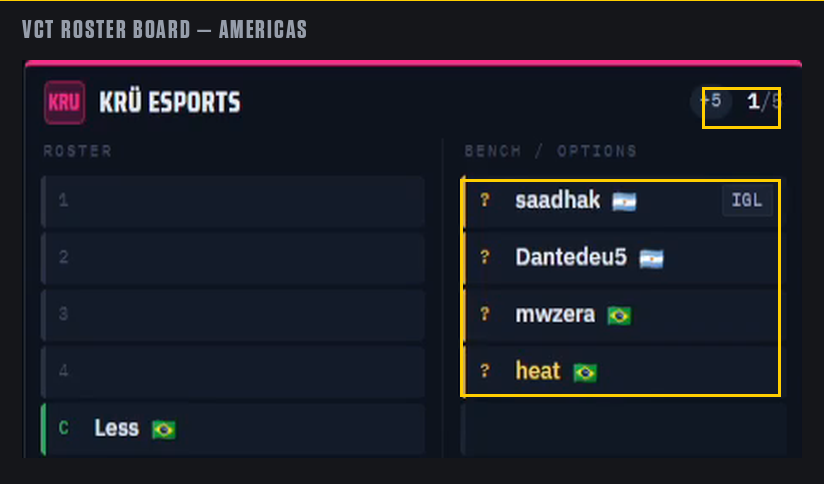
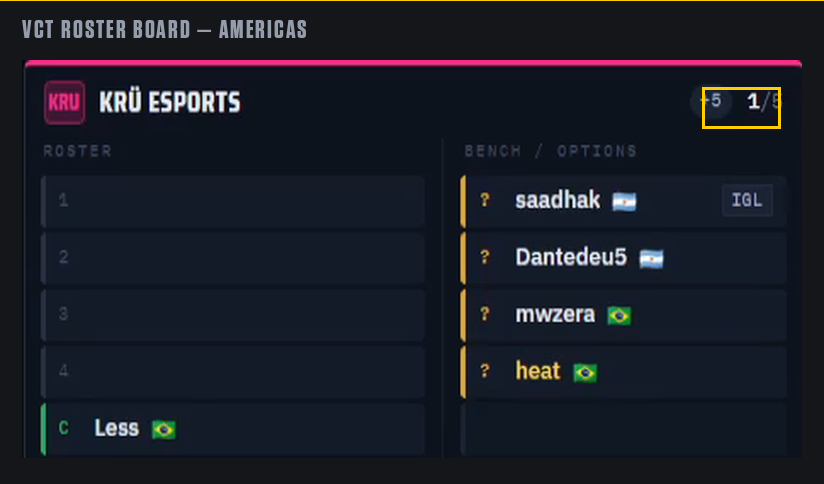
Build the marker annotation and mid-clip titles
Both came out of a per-second contact-sheet sweep of R1 that the earlier
once-over missed.

The marker DRAWS ON. R1's annotation at 0:31 is caught mid-stroke, ~70%
round, starting bottom-left. That is its whole character: a circle that
fades in reads as a UI element, one that draws reads as someone pointing.
titles.marker_ellipse renders a frame of the stroke; overlays.sequence_clip
pipes frames to ffmpeg as raw RGBA so an animated overlay needs no
intermediate files.

Three things keep it off the vector-ellipse look: the radius wanders on
three slow harmonics (plain noise looks like noise, not like a hand), the
stroke thins as the pen lifts, and the arc overshoots past 360 degrees.
It circles the four unconfirmed KRU players, replacing panel(boxes=...)'s
clean rectangle, and its position is derived from the panel geometry rather
than eyeballed.

Mid-clip titles are the hook treatment at a smaller cap height, single
line. Neither restates him — they frame the stretch that follows, which is
what the removed banner was failing to do: "WHAT IT MEANS FOR PLAYERS" at
6.1s and "THE TRADE-OFF" at 44.4s.

Titles get no sound, so a thunk always means the same thing: a fact card
arrived. The marker gets none either — it starts 0.55s after its card's
cue, inside the 3s spacing floor.

Seven overlays in 51.5s, up from three. All on the Resolve timeline.

clip08_FINAL: 51.5s, -14.02 LUFS, -0.84 dBTP, QC pass, 0 black frames.

Changed region(s): [[0.5461, 0.3719, 0.9709, 0.8368]]

diff --git a/build_overlays.py b/build_overlays.py
@@ -18,8 +18,8 @@ import sys
 
 ROOT = Path(__file__).parent
 sys.path.insert(0, str(ROOT))
-from engine.titles import hook, panel, BOARD_REGIONS
-from engine.overlays import alpha_clip
+from engine.titles import hook, panel, section, marker_ellipse, BOARD_REGIONS
+from engine.overlays import alpha_clip, sequence_clip, CANVAS
 
 SCRATCH = Path("/private/tmp/claude-501/"
                "-Users-georgegeddes-Library-Application-Support-Claude-scratch-workspaces-"
@@ -54,19 +54,64 @@ PLAN = [
          settle=16, make=lambda p: panel(PLATE, p, (100, 152, 680, 180), width=1010,
                                          kicker="VCT Roster Board",
                                          rules=[B_SIGNED])),
-    dict(name="kru",    track=4, at=37.85, dur=3.60, y=1060, fade_in=0.10, fade_out=0.25,
-         settle=16, make=lambda p: panel(PLATE, p, BOARD_REGIONS["kru"], width=780,
-                                         kicker="VCT Roster Board — Americas",
-                                         boxes=[(1358, 262, 1404, 286),
-                                                (1216, 316, 1404, 444)])),
+    # The KRU card is the only ANNOTATED one — the marker draws on over it,
+    # so it is built by sequence_clip rather than alpha_clip. The clean
+    # rectangle round the four unconfirmed players is gone; the marker does
+    # that job, and does it the way R1 does.
+    dict(name="kru",    track=4, at=37.85, dur=4.20, y=1060, fade_in=0.10, fade_out=0.25,
+         settle=16, marker=True,
+         make=lambda p: panel(PLATE, p, BOARD_REGIONS["kru"], width=780,
+                              kicker="VCT Roster Board — Americas",
+                              boxes=[(1358, 262, 1404, 286)])),
+    # Mid-clip section titles (R1, 0:31). Not restatements of his words —
+    # they frame the stretch that follows, which is the job the removed
+    # banner was doing badly.
+    dict(name="sec1",   track=5, at=6.10,  dur=2.30, y=1120, fade_in=0.14, fade_out=0.45,
+         settle=0,  make=lambda p: section("WHAT IT MEANS FOR PLAYERS", p,
+                                           cap_px=84, accent_words=("PLAYERS",))),
+    dict(name="sec2",   track=5, at=44.40, dur=2.20, y=1120, fade_in=0.14, fade_out=0.45,
+         settle=0,  make=lambda p: section("THE TRADE-OFF", p,
+                                           cap_px=96, accent_words=("TRADE-OFF",))),
 ]
+
+# Where the four unconfirmed KRU players land on the 1080x1920 canvas, after
+# panel() has cropped (958,246)-(1417,480) to 780 wide and the clip sits at
+# y=1060. Derived, not eyeballed: scale 780/459, card x=(1080-824)/2, and
+# panel's own pad(22) + kicker height(42).
+_SC = 780 / (BOARD_REGIONS["kru"][2] - BOARD_REGIONS["kru"][0])
+_CX = (CANVAS[0] - 824) / 2 + 22
+_CY = 1060 + 60
+MARKER_BOX = (_CX + (1216 - 958) * _SC, _CY + (308 - 246) * _SC,
+              _CX + (1404 - 958) * _SC, _CY + (448 - 246) * _SC)
+
+
+def kru_frame(card_png: Path):
+    """Compose the KRU card with the marker drawing on from 0.55s."""
+    from PIL import Image
+    card = Image.open(card_png).convert("RGBA")
+    x0, y0, x1, y1 = MARKER_BOX
+    cx, cy = (x0 + x1) / 2, (y0 + y1) / 2
+    rx, ry = (x1 - x0) / 2 + 26, (y1 - y0) / 2 + 22
+
+    def fn(t, i):
+        frame = Image.new("RGBA", CANVAS, (0, 0, 0, 0))
+        frame.alpha_composite(card, (int((CANVAS[0] - card.width) / 2), 1060))
+        p = max(0.0, min(1.0, (t - 0.55) / 0.55))
+        if p > 0:
+            frame.alpha_composite(marker_ellipse(CANVAS, cx, cy, rx, ry, p))
+        return frame
+    return fn
 
 if __name__ == "__main__":
     for o in PLAN:
         png = PNG / f"{o['name']}.png"
         o["make"](png)
         mov = OUT / f"{o['name']}.mov"
-        alpha_clip(png, mov, dur=o["dur"], y=o["y"], fade_in=o["fade_in"],
-                   fade_out=o["fade_out"], settle_px=o["settle"])
+        if o.get("marker"):
+            sequence_clip(kru_frame(png), mov, dur=o["dur"],
+                          fade_in=o["fade_in"], fade_out=o["fade_out"])
+        else:
+            alpha_clip(png, mov, dur=o["dur"], y=o["y"], fade_in=o["fade_in"],
+                       fade_out=o["fade_out"], settle_px=o["settle"])
         print(f"  {o['name']:7} V{o['track']}  {o['at']:6.2f}s +{o['dur']:.2f}s  "
-              f"y={o['y']:<5} {mov.name}")
+              f"y={o['y']:<5} {'marker' if o.get('marker') else '':7} {mov.name}")

diff --git a/engine/titles.py b/engine/titles.py
@@ -293,3 +293,66 @@ def panel(src_png: Path, out: Path, rect, *, width=820, kicker="VCT Roster Board
                     fill=accent)
     img.save(out)
     return img.size
+
+
+MARKER = (240, 72, 32, 255)          # R1's annotation colour: red/orange
+
+
+def section(text: str, out: Path, *, width=1080, cap_px=96, accent_words=()):
+    """A mid-clip section title (R1, 0:31 — "150K POV:").
+
+    Titles are not only a hook at the head: R1 re-titles as the argument
+    moves, and the treatment is identical to the hook — ALL CAPS, white fill,
+    heavy hard black outline, NO box and no glow, in a tall condensed heavy
+    grotesque. It holds about a second and dissolves out, and R1 lets that
+    dissolve run on top of a shot change rather than waiting for one.
+
+    Single line and smaller than `hook`, so the head of the clip keeps its
+    weight and this reads as a subheading rather than a second hook.
+    """
+    return hook([text], out, width=width, cap_px=cap_px, accent_words=accent_words)
+
+
+def marker_ellipse(size, cx, cy, rx, ry, progress: float, *, colour=MARKER,
+                   stroke=11, rot=-0.18, overshoot=0.22, seed=5, segments=240):
+    """One frame of a hand-drawn marker circle, drawn `progress` of the way.
+
+    R1's annotation at 0:31 is caught MID-DRAW, about 70% round, starting
+    bottom-left and sweeping up and over — so this is a stroke that draws
+    ON, not a shape that fades in. That is the whole character of it; a
+    circle that simply appears reads as a UI element.
+
+    What keeps it from looking like a vector ellipse: the radius wanders on
+    a low-frequency wobble, the stroke thins towards the end as a real pen
+    lifts, and the arc OVERSHOOTS past 360 degrees, which is what a hand
+    does when closing a circle in one motion.
+    """
+    import math
+    import random
+
+    img = Image.new("RGBA", size, (0, 0, 0, 0))
+    d = ImageDraw.Draw(img)
+    rng = random.Random(seed)
+    # three slow harmonics -> a wobble that reads as a hand, not as noise
+    ph = [rng.uniform(0, math.tau) for _ in range(3)]
+    amp = [0.045, 0.028, 0.015]
+
+    total = math.tau * (1.0 + overshoot)
+    end = total * max(0.0, min(1.0, progress))
+    start = math.pi * 0.75                      # bottom-left, as in R1
+    n = max(2, int(segments * max(progress, 1e-3)))
+
+    pts = []
+    for i in range(n + 1):
+        a = start + end * i / n
+        w = 1.0 + sum(A * math.sin(k * (a - start) + p)
+                      for k, (A, p) in enumerate(zip(amp, ph), start=2))
+        x = cx + math.cos(a) * rx * w * math.cos(rot) - math.sin(a) * ry * w * math.sin(rot)
+        y = cy + math.cos(a) * rx * w * math.sin(rot) + math.sin(a) * ry * w * math.cos(rot)
+        pts.append((x, y))
+
+    for i in range(len(pts) - 1):
+        f = i / max(1, len(pts) - 1)
+        w = max(2, int(stroke * (1.0 - 0.45 * f ** 2)))     # the pen lifts
+        d.line([pts[i], pts[i + 1]], fill=colour, width=w, joint="curve")
+    return img

diff --git a/engine/overlays.py b/engine/overlays.py
@@ -75,3 +75,36 @@ def alpha_clip(png: Path, out: Path, *, dur: float, x: int | str = "(W-w)/2",
 def frames(seconds: float, fps: int = FPS) -> int:
     """Seconds to a frame count. `endFrame` is EXCLUSIVE in AppendToTimeline."""
     return int(round(seconds * fps))
+
+
+def sequence_clip(fn, out: Path, *, dur: float, canvas=CANVAS, fps: int = FPS,
+                  fade_in: float = 0.10, fade_out: float = 0.25) -> Path:
+    """Render a per-frame function to an alpha clip Resolve can composite.
+
+    `alpha_clip` is enough for a static card that fades and settles. An
+    annotation that DRAWS ON cannot be expressed that way — R1's marker
+    circle at 0:31 is caught mid-stroke, and a circle that merely fades in
+    reads as a UI element rather than someone pointing at something.
+
+    `fn(t, i)` returns an RGBA PIL image the size of the canvas. Frames are
+    piped to ffmpeg as raw RGBA, so nothing hits the disk in between.
+    """
+    import numpy as np
+
+    w, h = canvas
+    n = int(round(dur * fps))
+    proc = subprocess.Popen(
+        ["ffmpeg", "-y", "-v", "error",
+         "-f", "rawvideo", "-pix_fmt", "rgba", "-s", f"{w}x{h}", "-r", str(fps), "-i", "-",
+         "-filter_complex",
+         f"[0]fade=t=in:st=0:d={fade_in}:alpha=1,"
+         f"fade=t=out:st={max(0.0, dur - fade_out):.3f}:d={fade_out}:alpha=1[v]",
+         "-map", "[v]", "-c:v", "qtrle", "-pix_fmt", "argb", str(out)],
+        stdin=subprocess.PIPE)
+    for i in range(n):
+        img = fn(i / fps, i)
+        proc.stdin.write(np.asarray(img.convert("RGBA"), dtype=np.uint8).tobytes())
+    proc.stdin.close()
+    if proc.wait() != 0:
+        raise RuntimeError(f"ffmpeg failed writing {out}")
+    return out

diff --git a/resolve_overlays.py b/resolve_overlays.py
@@ -44,10 +44,16 @@ def main():
     total_s = total_frames / FPS
     print(f"timeline {tl.GetName()}  start {start}  {total_frames} frames ({total_s:.3f}s)")
 
-    # ---- the sound bed: one cue per card arriving, nothing else -----------
+    # ---- the sound bed: one cue per FACT CARD arriving, nothing else ------
+    # Titles get no sound. Keeping the thunk exclusively for cards means a
+    # sound always says the same thing — a fact just arrived — and after two
+    # notes about level, salting six events rather than four is the wrong
+    # direction. The marker draw-on gets none either: it starts 0.55s after
+    # its card's cue, well inside the 3s spacing floor.
+    SOUNDED = {"tweet", "strip1", "strip2", "kru"}
     cues = [Cue(o["at"] + 0.02, "thunk", cue_gain("thunk", TARGET_RMS, MASTER_GAIN),
                 f"{o['name']} card arrives")
-            for o in PLAN if o["name"] != "hook"]
+            for o in PLAN if o["name"] in SOUNDED]
     wav = OUT / "sfx.wav"
     print("sfx:", bed(cues, total_s, out=wav))
 

diff --git a/finish_audio.py b/finish_audio.py
@@ -17,9 +17,9 @@ sys.path.insert(0, str(ROOT))
 from engine.render_ffmpeg import _finish_audio
 from engine import qc
 
-SRC = ROOT / "renders/clip08_v22_resolve.mov"
-EQD = ROOT / "renders/clip08_v22_eq.mov"
-OUT = ROOT / "renders/clip08_v22.mp4"
+SRC = ROOT / "renders/clip08_v23_resolve.mov"
+EQD = ROOT / "renders/clip08_v23_eq.mov"
+OUT = ROOT / "renders/clip08_v23.mp4"
 
 EQ = "equalizer=f=3000:t=q:w=1.1:g=4,equalizer=f=9500:t=q:w=1.0:g=-7"
 subprocess.run(["ffmpeg", "-y", "-v", "error", "-i", str(SRC),

diff --git a/AGENTS.md b/AGENTS.md
@@ -621,6 +621,50 @@ Dropped deliberately: **flashes on cuts** (a cut is already an edit event, and
 neither reference uses flashes at all) and **shake** (decoration on a speaker
 this measured).
 
+### Marker annotation and mid-clip titles (R1, 0:31)
+
+Both came out of a per-second contact-sheet sweep of R1 that the earlier
+once-over had missed, and both are now built.
+
+**The marker DRAWS ON.** R1's annotation is a red/orange circle caught
+mid-stroke — about 70% round, starting bottom-left and sweeping up and over.
+That is the whole character of it: a circle that simply fades in reads as a
+UI element, while one that draws reads as someone pointing. `titles.
+marker_ellipse(…, progress)` renders one frame of the stroke;
+`overlays.sequence_clip` pipes the frames to ffmpeg as raw RGBA so an
+animated overlay needs no intermediate files.
+
+Three details keep it off the vector-ellipse look, and all three matter:
+the radius wanders on three slow harmonics (noise alone looks like noise,
+not like a hand); the stroke thins toward the end as a real pen lifts; and
+the arc **overshoots past 360°**, which is what a hand does closing a circle
+in one motion.
+
+On clip 8 it circles the four unconfirmed KRU players, replacing the clean
+rectangle `panel(boxes=…)` was drawing. Its position is DERIVED from the
+panel geometry — crop scale, card offset, pad and kicker height — not
+eyeballed, so it stays correct if the card is resized.
+
+**Mid-clip titles are the same treatment as the hook.** R1 re-titles as the
+argument moves ("150K POV:" at 0:31): ALL CAPS, white fill, heavy hard black
+outline, no box, no glow, condensed heavy grotesque, roughly a second, then
+a dissolve out — and R1 lets that dissolve run on top of a shot change
+rather than waiting for one. `titles.section` is `hook` with one line at a
+smaller cap height, so the head of the clip keeps its weight.
+
+Clip 8 gets two, and neither restates him — they frame the stretch that
+follows, which is the job the removed banner was doing badly:
+**"WHAT IT MEANS FOR PLAYERS"** at 6.1s (the pivot from news to argument)
+and **"THE TRADE-OFF"** at 44.4s (the closing move).
+
+**Titles get no sound.** Sound stays exclusively on fact cards, so a thunk
+always means the same thing — a fact just arrived. Salting six events
+instead of four is the wrong direction after two notes about level. The
+marker gets none either: it starts 0.55s after its card's cue, well inside
+the 3s spacing floor.
+
+Seven overlays in 51.5s now, up from three.
+
 ### The overlays belong IN the Resolve timeline
 
 George: "stop being lazy, edit this in davinci." He was right — the hook,

diff --git a/docs/SKILLS.md b/docs/SKILLS.md
@@ -288,18 +288,20 @@ EITHER PRX OR G2"), never a description of the video. A banner that names the
 subject instead of asserting something reads as metadata and should be cut.
 
 
-## Skills 16-18 — found by a per-second sweep of R1, NOT YET BUILT
+## Skills 16-18 — found by a per-second sweep of R1 (16 and 17 BUILT)
 
 A contact-sheet sweep at 1fps turned up three techniques the earlier
 once-over missed. Recorded here so they are not re-derived.
 
-**16. Hand-drawn marker annotation (R1, 0:31).** A red/orange marker circle
+**16. Hand-drawn marker annotation (R1, 0:31). BUILT —
+`titles.marker_ellipse` + `overlays.sequence_clip`.** A red/orange marker circle
 drawn over the gameplay, caught mid-stroke. This is the "reference" overlay
-in its purest form: it points at the thing being discussed. Closest thing we
-have is `titles.panel(boxes=...)`, which draws a clean rectangle — a marker
-stroke would read far less like a UI and more like someone making a case.
+in its purest form: it points at the thing being discussed. It replaced the clean rectangle
+`titles.panel(boxes=...)` was drawing. What keeps it from looking like a
+vector ellipse: a radius wandering on three slow harmonics, a stroke that
+thins as the pen lifts, and an arc that overshoots past 360 degrees.
 
-**17. Mid-clip section title (R1, 0:31).** "150K POV:" — ALL CAPS, white
+**17. Mid-clip section title (R1, 0:31). BUILT — `titles.section`.** "150K POV:" — ALL CAPS, white
 fill, heavy stroke, no panel, appearing 31 seconds in. Titles are not just a
 hook at the head; R1 re-titles as the argument moves.
 
